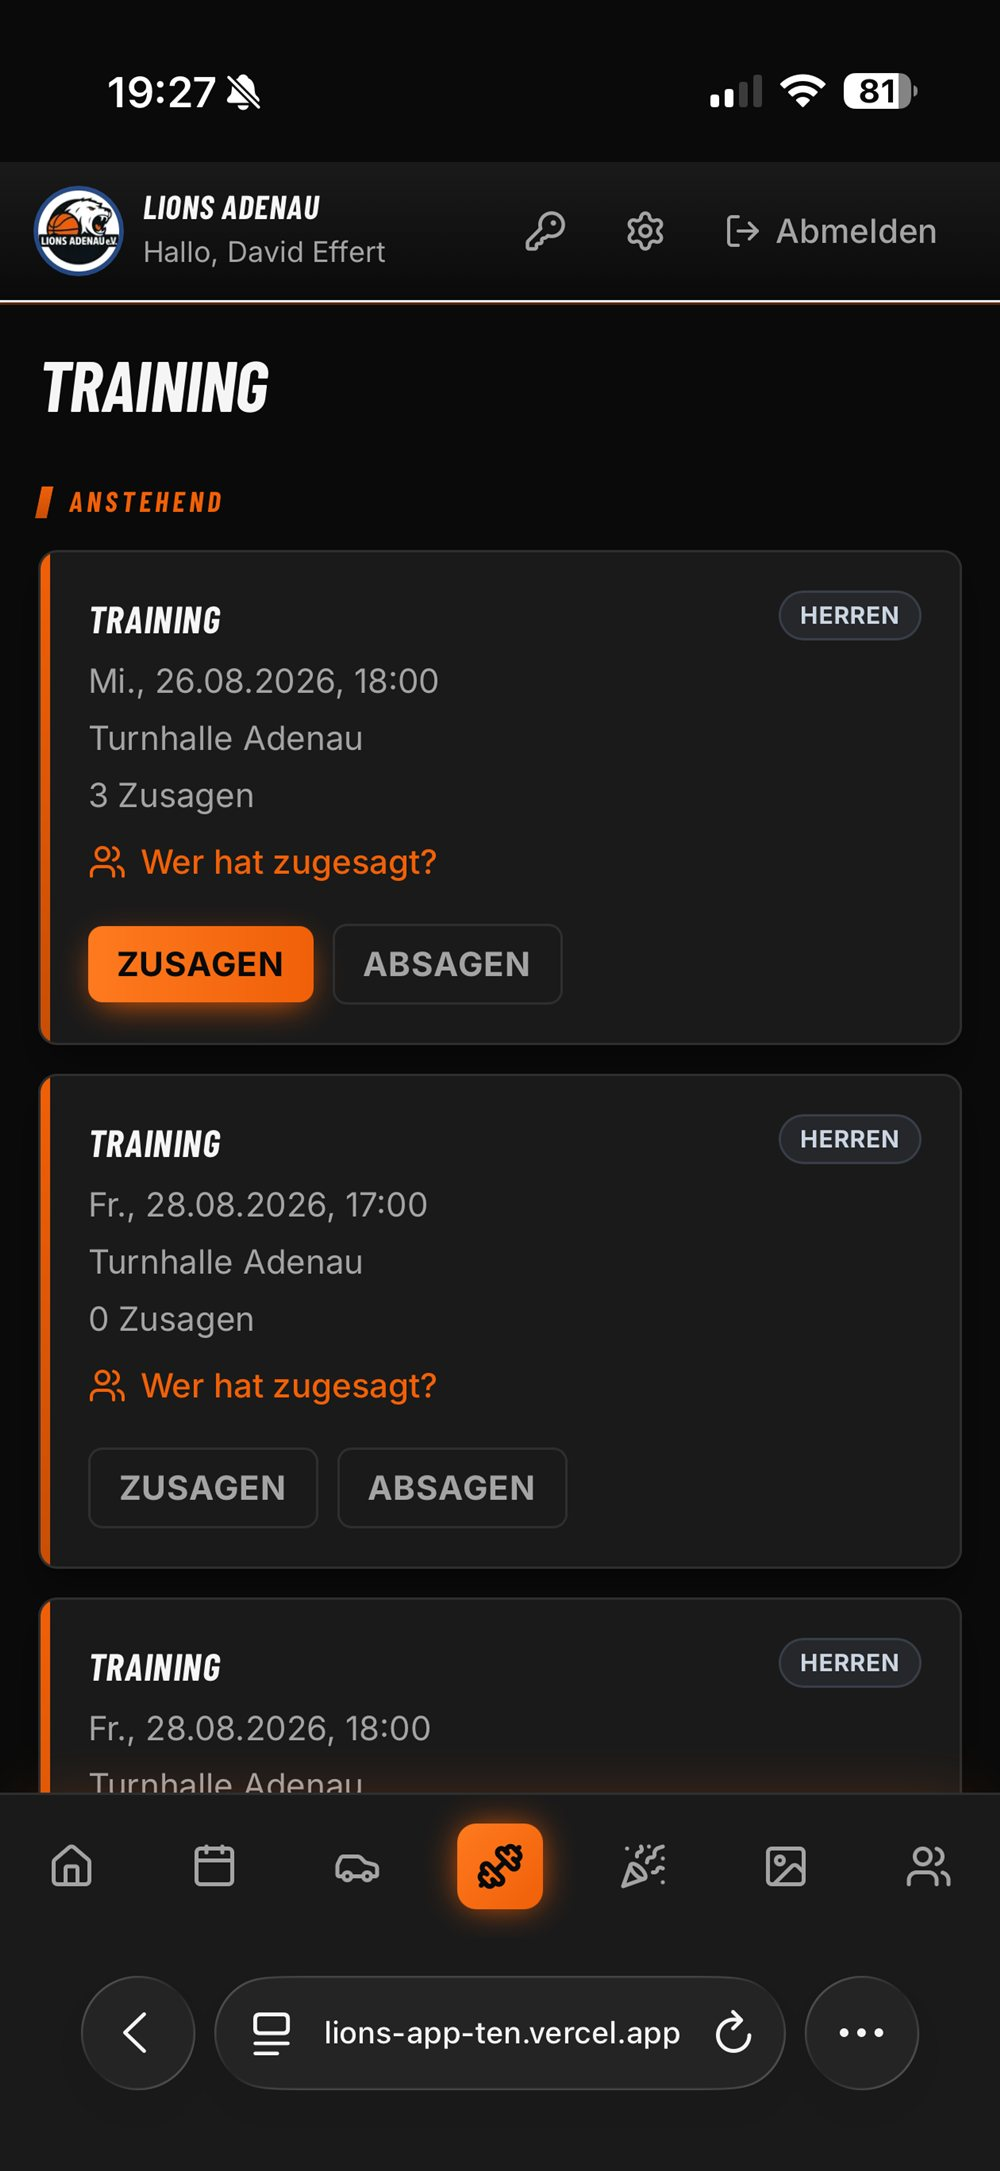
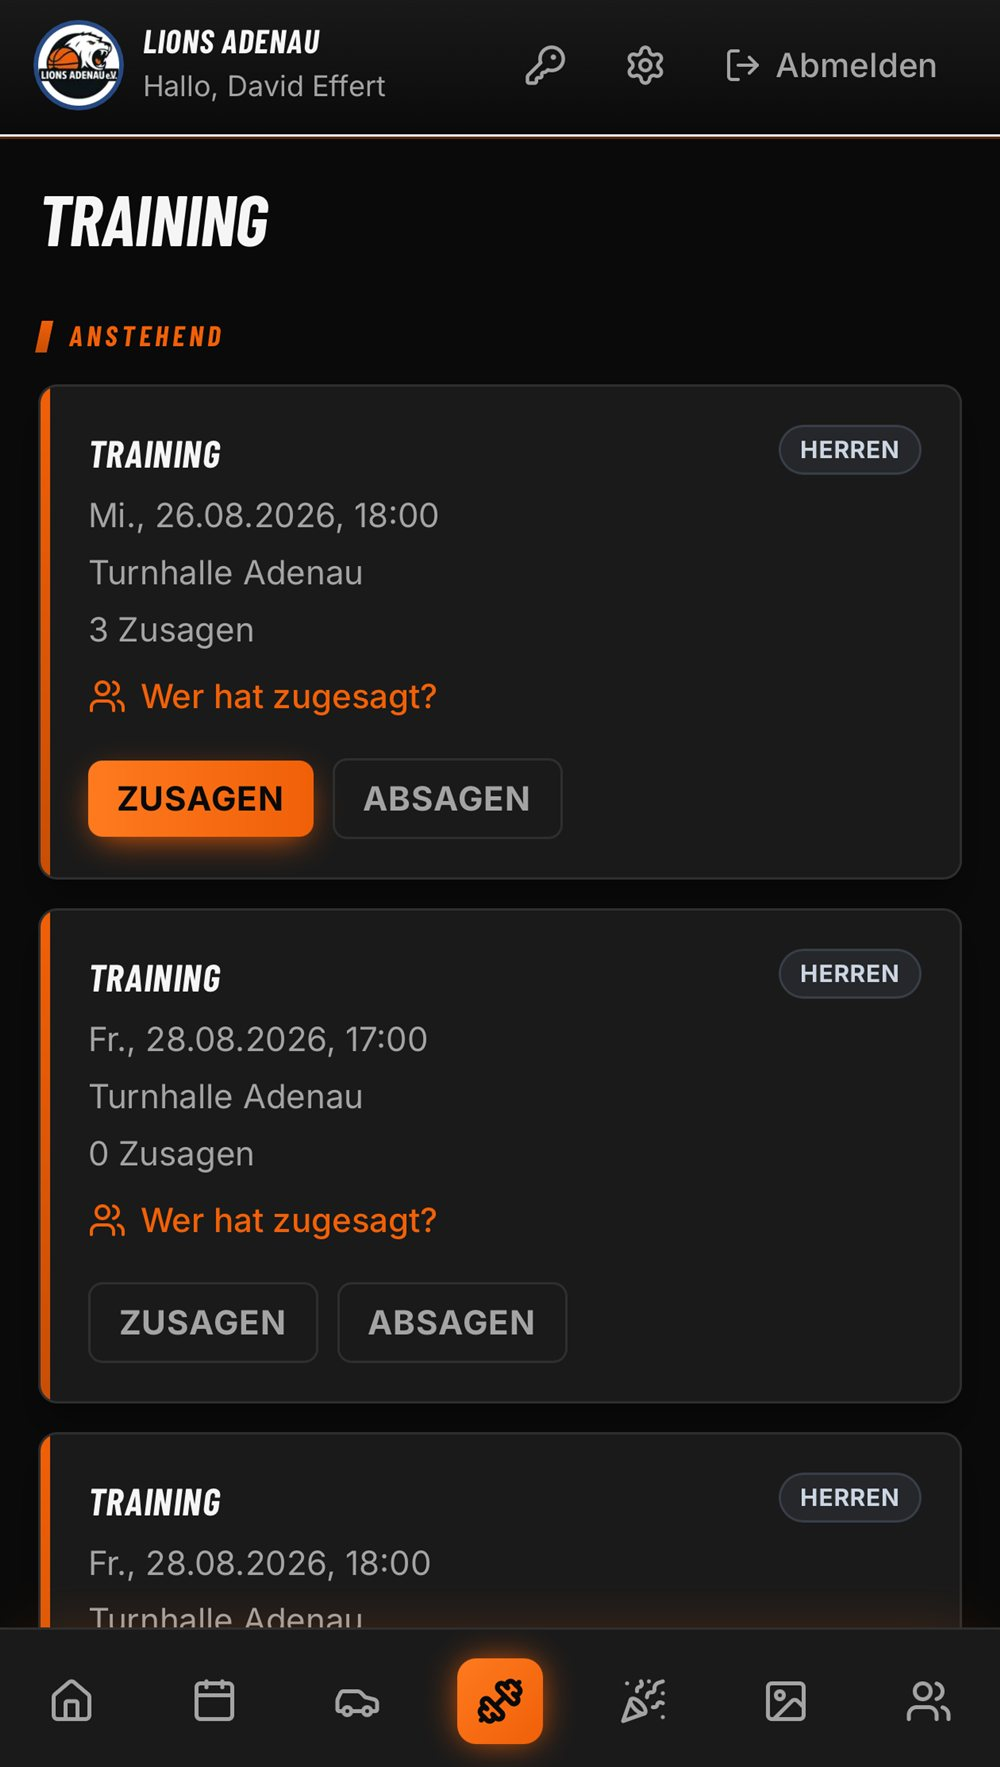
Lions-Adenau-Bild mit neuem Zuschnitt aktualisiert, ArtistUP-Problem-Satz gekuerzt, Wartungs-Preiszeile praezisiert ("optional")

diff --git a/index.html b/index.html
@@ -126,7 +126,7 @@
       <p class="eyebrow">Preise</p>
       <div class="price-lines">
         <p class="price-teaser">Websites ab 1.290&nbsp;€</p>
-        <p class="price-sub">Wartung ab 59&nbsp;€ / Monat</p>
+        <p class="price-sub">Wartung optional ab 59&nbsp;€ / Monat</p>
         <p class="price-sub">Web-Apps individuell ab 1.990&nbsp;€</p>
       </div>
       <p class="price-text">Der genaue Preis hängt vom Umfang ab. Nach einem kurzen Gespräch bekommst du ein konkretes Angebot.</p>
@@ -153,7 +153,7 @@
           </div>
           <dl class="case-study">
             <dt>Problem</dt>
-            <dd>Artists haben kaum eine Möglichkeit, vor der Veröffentlichung strukturiertes Feedback zu neuen Tracks zu bekommen.</dd>
+            <dd>Artists haben kaum eine Möglichkeit, strukturiertes Feedback zu neuen Tracks zu bekommen.</dd>
             <dt>Lösung</dt>
             <dd>Eine Swipe-basierte Discovery-App, bei der Hörer Tracks bewerten und Feedback zu Vocals, Melodie, Lyrics, Emotion und Atmosphäre geben.</dd>
             <dt>Funktionen</dt>
@@ -201,7 +201,7 @@
         <div class="reference-body">
           <div class="reference-images">
             <img src="assets/img/ref-lions-1.jpg" alt="Login-Bildschirm der Lions Adenau App mit Vereinslogo" loading="lazy" width="900" height="1821">
-            <img src="assets/img/ref-lions-2.jpg" alt="Trainingsübersicht der Lions Adenau App mit Zu- und Absagen, im Browser geöffnet" loading="lazy" width="1000" height="2171">
+            <img src="assets/img/ref-lions-2.jpg" alt="Trainingsübersicht der Lions Adenau App mit Zu- und Absagen" loading="lazy" width="1000" height="1767">
           </div>
           <dl class="case-study">
             <dt>Problem</dt>
